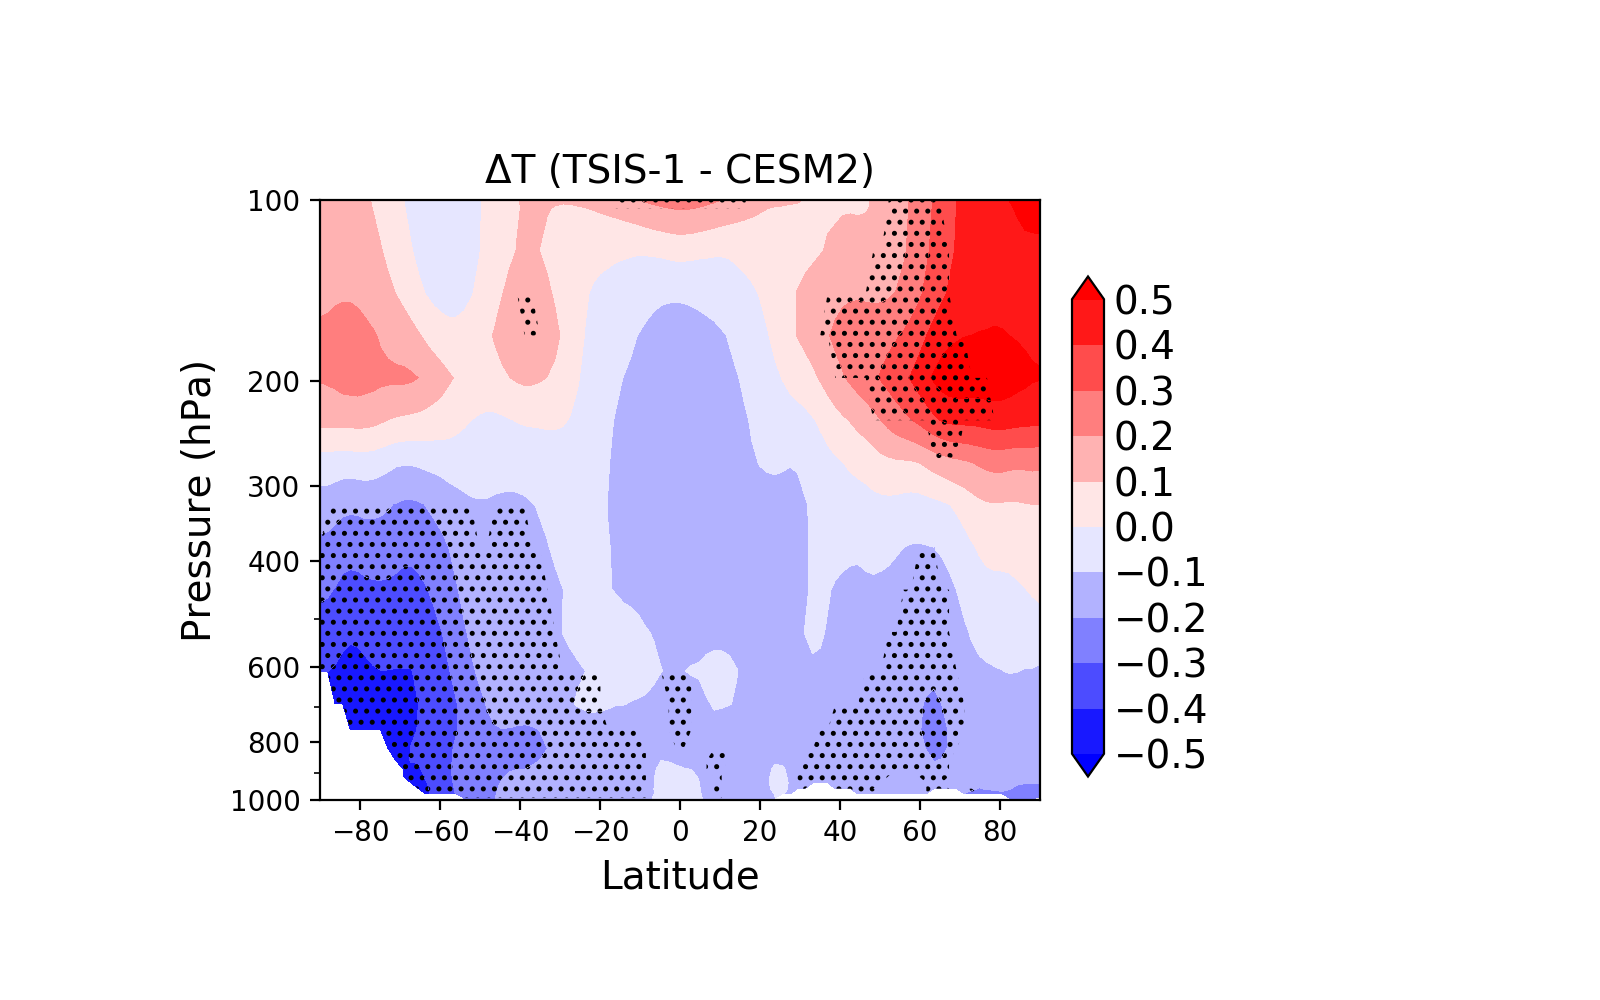
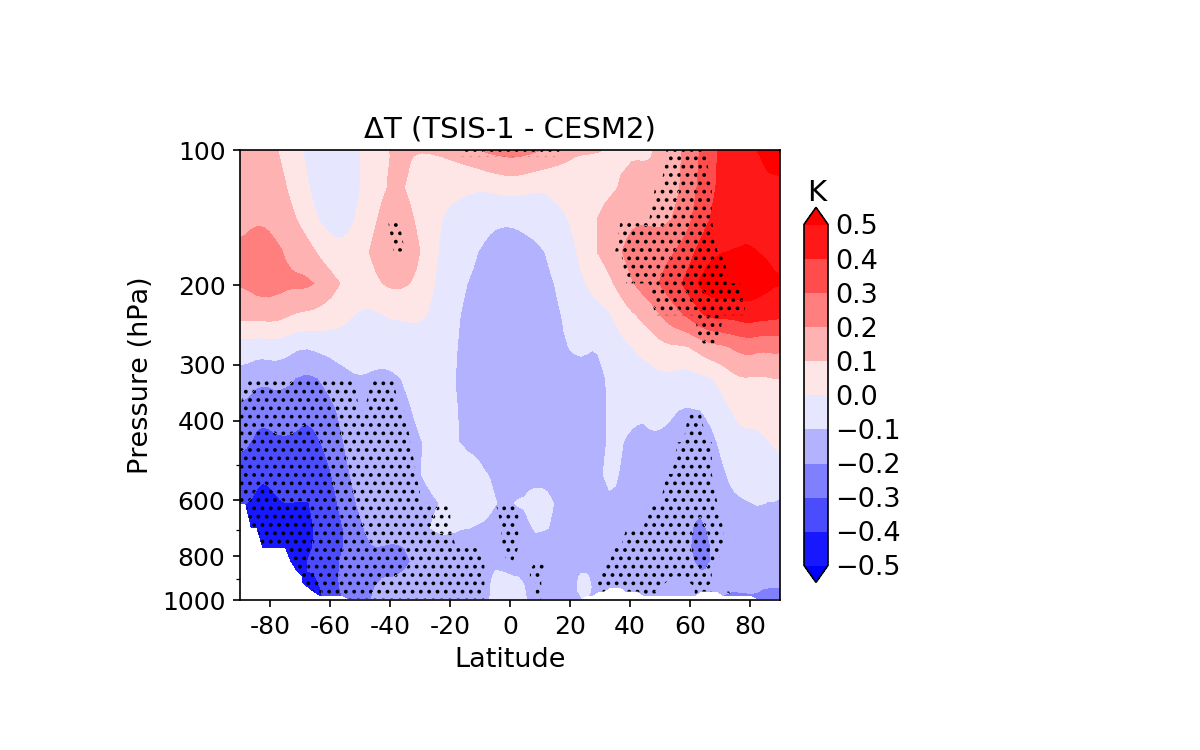
modify bar and t-profile figures

diff --git a/d2_solar_band_global_mean_model_vs_model_double_bar.py b/d2_solar_band_global_mean_model_vs_model_double_bar.py
@@ -319,9 +319,10 @@ color1="k"
 color2="r"
 ax1.bar(x-0.2,means_ctl_toa,width=0.5,color=color1,label="TOA") #"tab:blue"
 ax1.bar(x+0.2,means_ctl_sfc,width=0.5,color=color2,label="Surface") #"tab:blue"
+ax1.text(13.7, -24.0, r'$\mu$m',fontsize=12)
 #ax1.set_title(var_long_name+" (CESM2)",fontsize=14)
-ax1.set_title("Net Flux at TOA&Surface" +" (CESM2)",fontsize=14)
-ax1.set_ylabel(units,fontsize=14)
+ax1.set_title("Net SW Flux at TOA&Surface" +" (CESM2)",fontsize=12)
+ax1.set_ylabel(units,fontsize=12)
 #ax1.set_xlabel("Band wave length",fontsize=12)
 ax1.grid(True)
 ax1.set_axisbelow(True)
@@ -329,8 +330,8 @@ ax1.xaxis.grid(color='lightgray', linestyle=':')
 ax1.yaxis.grid(color='lightgray', linestyle=':')
 plt.xticks(x,bands,rotation=-90,fontsize=12)
 #ax1.set_xticklabels(labels=bands,rotation=-45,fontsize=12)
-plt.yticks(fontsize=14)
-ax1.legend(fontsize=14)
+plt.yticks(fontsize=12)
+ax1.legend(fontsize=12)
 
 #ax2=fig.add_axes([0.15,0.14,0.78,0.33])
 ax2=fig.add_axes([0.55,0.25,0.35,0.4])
@@ -344,9 +345,11 @@ ax2.bar(x-0.2,diffs_unsig_toa,width=0.5,yerr=stddev_diffs_toa_unsig,color=color1
 ax2.bar(x+0.2,diffs_sig_sfc,width=0.5,yerr=stddev_diffs_sfc_sig,color=color2,ecolor="gray",edgecolor="white")
 ax2.bar(x+0.2,diffs_unsig_sfc,width=0.5,yerr=stddev_diffs_sfc_unsig,color=color2,ecolor="gray",)
 
+ax2.text(13.7, -1.98, r'$\mu$m',fontsize=12)
+
 #ax2.set_title("Diff in "+var_long_name+" (TSIS-1 - CESM2)",fontsize=14)
-ax2.set_title("Differences"+" (TSIS-1 - CESM2)",fontsize=14)
-ax2.set_ylabel(units,fontsize=14)
+ax2.set_title("Differences"+" (TSIS-1 - CESM2)",fontsize=12)
+ax2.set_ylabel(units,fontsize=12)
 #ax2.set_xlabel("Band wave length",fontsize=14)
 ax2.grid(True)
 ax2.set_axisbelow(True)
@@ -355,9 +358,9 @@ ax2.xaxis.grid(color='lightgray', linestyle=':')
 ax2.yaxis.grid(color='lightgray', linestyle=':')
 #ax2.set_xticklabels(labels=bands,rotation=-45,fontsize=12)
 plt.xticks(x,bands,rotation=-90,fontsize=12)
-plt.yticks(fontsize=14)
+plt.yticks(fontsize=12)
 #plt.savefig(figure_name+".eps")
-#plt.savefig(figure_name+".png",dpi=(150))
+plt.savefig(figure_name+".png",dpi=(150))
 plt.show()
 
 exit()

diff --git a/d11_zonal_mean_profile_T.py b/d11_zonal_mean_profile_T.py
@@ -255,25 +255,28 @@ ax1.set_title("\u0394T (TSIS-1 - CESM2)",fontsize=14)
 #ax1.set_xlabel("Latitude",fontsize=14)
 ax1.set_xlim(-90,90)
 ax1.set_ylim(1000,100)
+ax1.set_xticks([-80,-60,-40,-20,0,20,40,60,80])
+ax1.set_xticklabels(["-80","-60","-40","-20","0","20","40","60","80"],fontsize=12)
 ax1.set_yscale("log")
 ax1.set_yticks([1000,800,600,400,300,200,100])
-ax1.set_yticklabels(["1000","800","600","400","300","200","100"])
+ax1.set_yticklabels(["1000","800","600","400","300","200","100"],fontsize=12)
 
 # color bar
 cbax = fig.add_axes((panel[0][0] + 0.47, panel[0][1]+ 0.0235, 0.02, 0.5))
 cbar = fig.colorbar(p1, cax=cbax, ticks=cnlevels)
-cbar.ax.tick_params(labelsize=14.0, length=0)
+cbar.ax.tick_params(labelsize=13.0, length=0)
 
+ax1.text(99, 130, 'K',fontsize=14)
 
 p2 = ax1.contourf(lat[:],lev[:],diffs_sig[0,:,:],levels=cnlevels,cmap="bwr",hatches=['...'],extend="both")
 
-ax1.set_ylabel("Pressure (hPa)",fontsize=14)
-ax1.set_xlabel("Latitude",fontsize=14)
-ax1.set_xticks([-80,-60,-40,-20,0,20,40,60,80])
+ax1.set_ylabel("Pressure (hPa)",fontsize=13)
+ax1.set_xlabel("Latitude",fontsize=13)
+#ax1.set_xticks([-80,-60,-40,-20,0,20,40,60,80])
 #ax1.set_xticklabels(["1000","800","600","400","300","200","100"])
 
-ax1.set_yticks([1000,800,600,400,300,200,100])
-ax1.set_yticklabels(["1000","800","600","400","300","200","100"])
+#ax1.set_yticks([1000,800,600,400,300,200,100])
+#ax1.set_yticklabels(["1000","800","600","400","300","200","100"])
 #plt.xticks(fontsize=12)
 #plt.yticks(fontsize=12)
 
@@ -297,11 +300,11 @@ ax1.set_yticklabels(["1000","800","600","400","300","200","100"])
 #ax2.set_xlabel("Latitude",fontsize=14)
 #ax2.set_xlim(-90,90)
 #ax2.set_ylim(-1.0,0.2)
-#plt.xticks(fontsize=12)
-#plt.yticks(fontsize=12)
+#plt.xticks(fontsize=15)
+#plt.yticks(fontsize=15)
 
-#plt.savefig(figure_name+".eps")
-#plt.savefig(figure_name+".png",dpi=(200))
+plt.savefig(figure_name+".eps")
+plt.savefig(figure_name+".png",dpi=(150))
 plt.show()
 
 exit()
